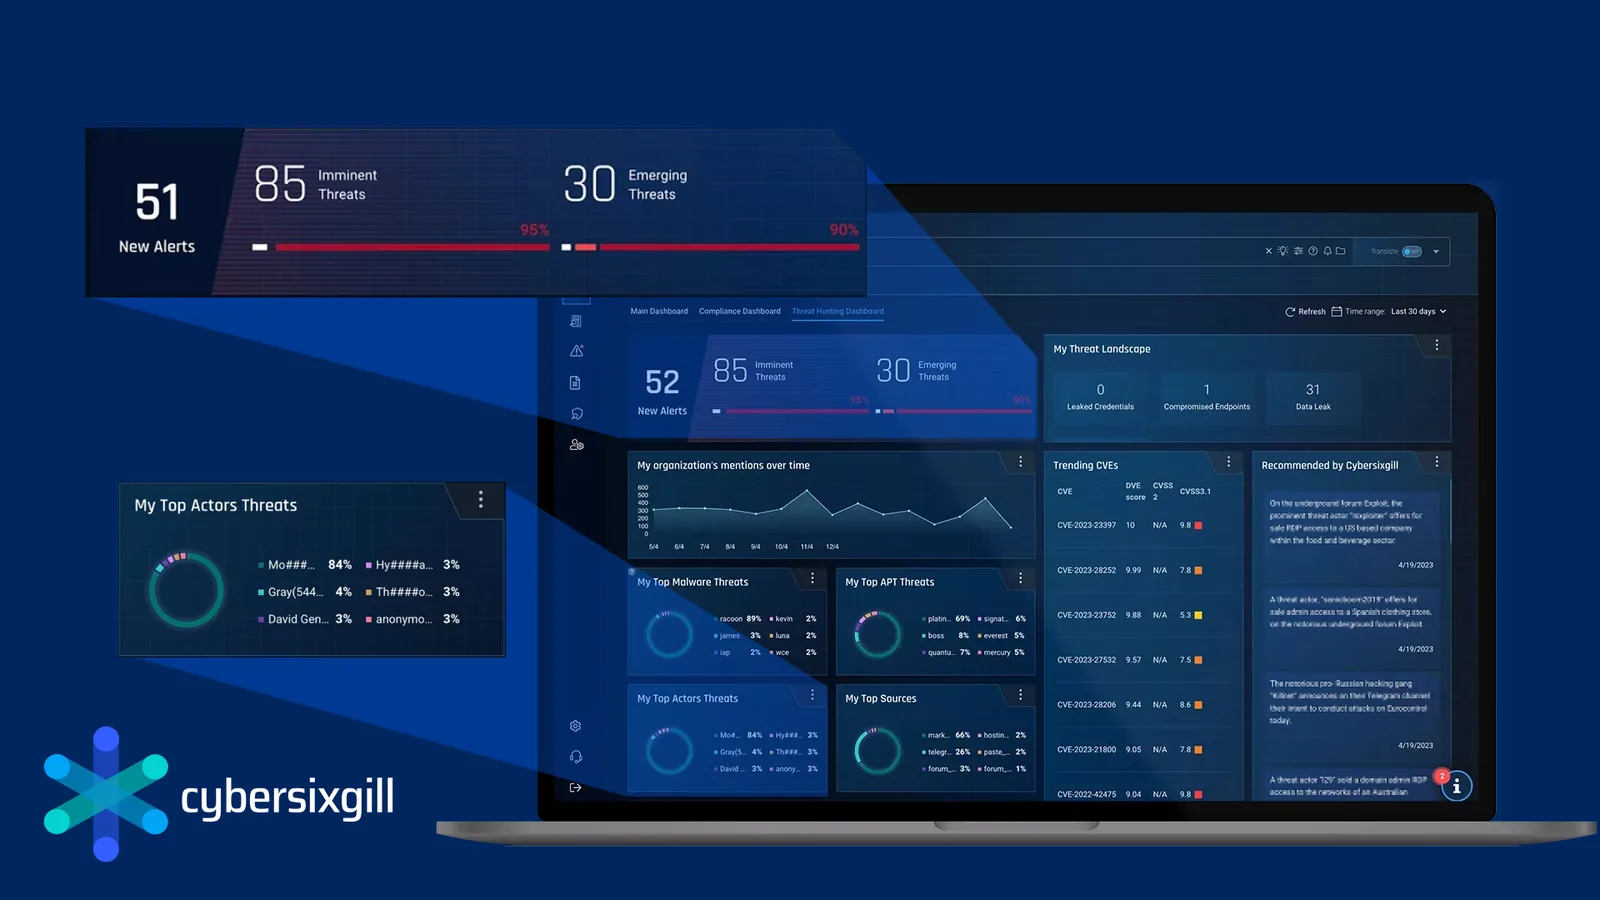
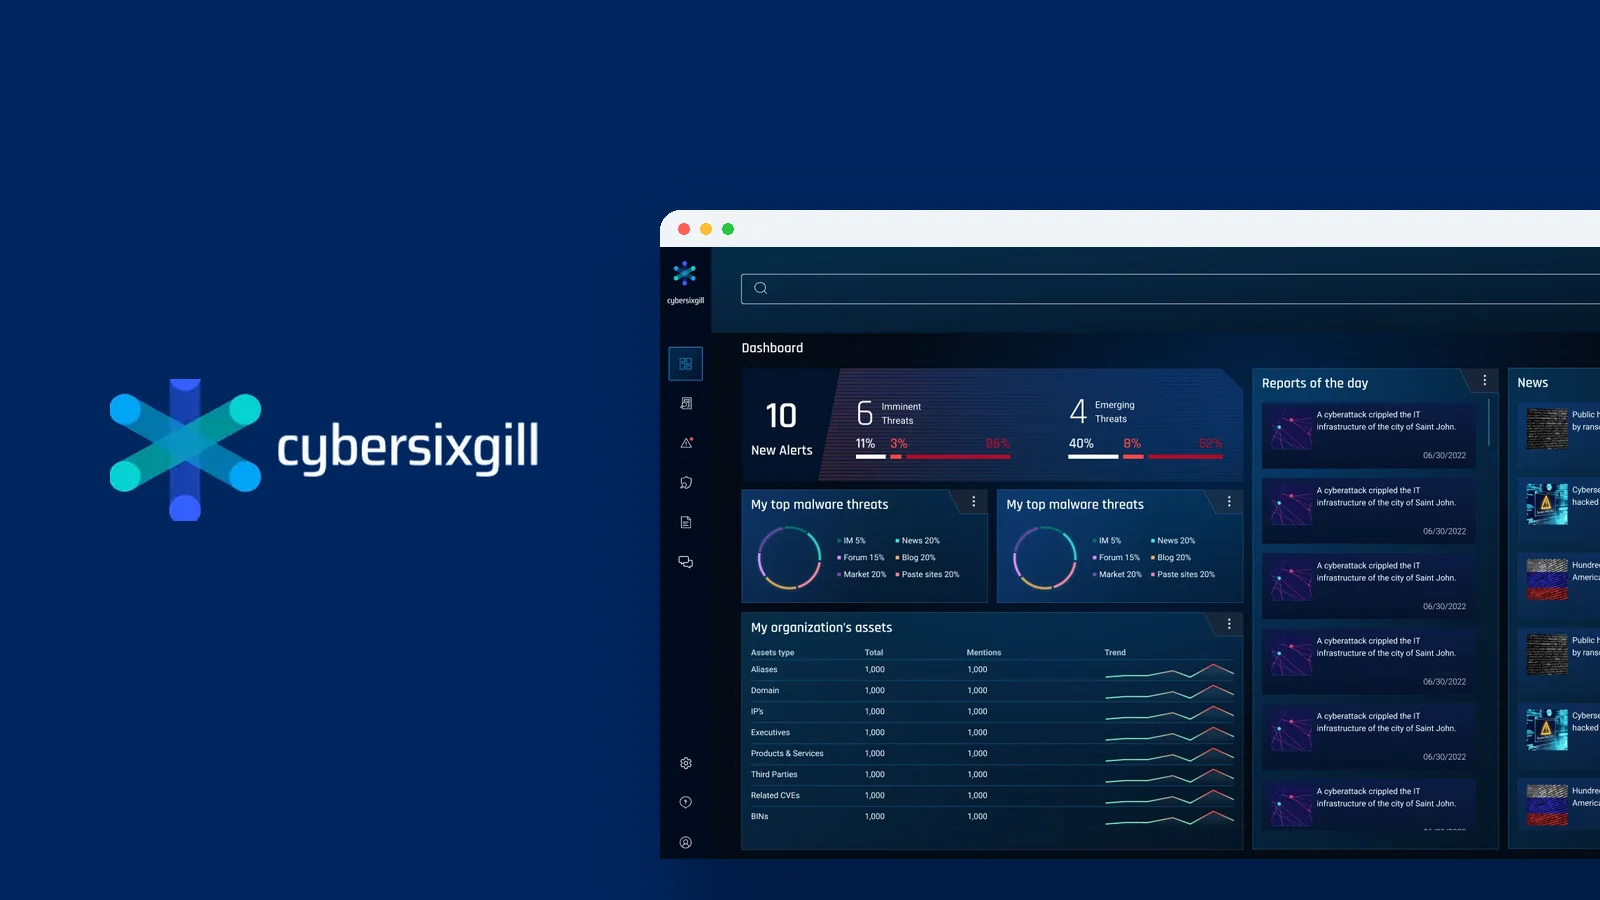
Preview: Sentrycs and Cybersixgill covers on the same system as the Afimilk pair
Claude-Session: https://claude.ai/code/session_01U3LnkADmWK6BWBvsiVpdjW

diff --git a/scripts/client-covers.py b/scripts/client-covers.py
@@ -1,0 +1,64 @@
+"""Rebuild the Sentrycs and Cybersixgill homepage covers on the same system as the two
+Afimilk cards: flat brand field, the client's own logo on the left, a product window
+bleeding off the right edge, and a couple of small brand accents."""
+from PIL import Image, ImageDraw, ImageFilter
+import numpy as np, sys
+I='/home/claude/portfolio/public/images/'; S=sys.argv[1]
+W,H=1600,900
+
+def window(img, width, radius=20, bar=36):
+    """Put a screenshot in a light browser chrome, returned with its rounded mask."""
+    h=int(img.height*width/img.width); img=img.resize((width,h),Image.LANCZOS)
+    win=Image.new('RGB',(width,h+bar),(255,255,255)); win.paste(img,(0,bar))
+    d=ImageDraw.Draw(win); d.rectangle((0,0,width,bar),fill=(241,244,247))
+    for i,c in enumerate([(255,95,87),(254,188,46),(40,200,64)]): d.ellipse((18+i*22,13,29+i*22,24),fill=c)
+    mask=Image.new('L',win.size,0); ImageDraw.Draw(mask).rounded_rectangle((0,0,win.width,win.height+60),radius,fill=255)
+    return win, mask
+
+def place(cv, win, mask, x, y, shadow=(10,20,40)):
+    sh=Image.new('L',(W,H),0)
+    ImageDraw.Draw(sh).rounded_rectangle((x+8,y+28,x+win.width+40,y+win.height+40),26,fill=120)
+    sh=sh.filter(ImageFilter.GaussianBlur(36))
+    cv=Image.composite(Image.new('RGB',(W,H),shadow),cv,sh)
+    cv.paste(win,(x,y),mask); return cv
+
+def matte(arr, bg_pct=92):
+    """Alpha matte for dark artwork sitting on a light, slightly uneven background."""
+    lum=arr.sum(2)/3; bg=np.percentile(lum,bg_pct,axis=0)[None,:]
+    return np.clip((bg-lum)/np.maximum(bg-12,1),0,1)
+
+# ---------- Sentrycs: black-on-light wordmark, so the field stays light ----------
+src=Image.open(I+'sentrycs-1600.webp').convert('RGB')
+w=src.crop((44,735,450,822)); lum=w.convert('L')
+bgl=lum.filter(ImageFilter.MaxFilter(21)).filter(ImageFilter.GaussianBlur(12))
+Lv=np.array(lum).astype(float); Bv=np.array(bgl).astype(float)
+al=np.clip((Bv-Lv)/np.maximum(Bv*0.78,1),0,1)
+al=np.clip((al-0.42)/0.40,0,1)
+al=Image.fromarray((al*255).astype('uint8')).filter(ImageFilter.MedianFilter(3))
+word=Image.new('RGBA',w.size,(17,17,19,255)); word.putalpha(al)
+ac=src.crop((176,620,320,706)); arr=np.array(ac).astype(int)
+m=((arr[:,:,2]>150)&(arr[:,:,0]<150)&(arr[:,:,2]-arr[:,:,0]>45)).astype('uint8')*255
+m=Image.fromarray(m).filter(ImageFilter.GaussianBlur(0.7))
+arrows=Image.fromarray(np.dstack([np.array(ac).astype('uint8'),np.array(m)]),'RGBA')
+
+cv=Image.new('RGB',(W,H),(240,242,246))
+shot,mask=window(Image.open(I+'sentrycs/realtime-final-1600.webp').convert('RGB'),1120)
+cv=place(cv,shot,mask,660,210,shadow=(96,108,128))
+aw=168; a2=arrows.resize((aw,int(arrows.height*aw/arrows.width)),Image.LANCZOS)
+cv.paste(a2,(112,318),a2)
+ww=404; w2=word.resize((ww,int(word.height*ww/word.width)),Image.LANCZOS)
+cv.paste(w2,(110,474),w2)
+cv.save(S+'/sentrycs-cover.png')
+
+# ---------- Cybersixgill: white logo already sits on their flat navy ----------
+c=Image.open(I+'cybersixgill-1600.webp').convert('RGB')
+logo=c.crop((45,742,395,858))  # logo + wordmark, background is flat #00265F
+la=np.array(logo).astype(float); bg=np.array([0,38,95.])
+alpha=np.clip(np.abs(la-bg).sum(2)/150,0,1)
+logo_rgba=Image.fromarray(np.dstack([np.array(logo),(alpha*255).astype('uint8')]),'RGBA')
+cv=Image.new('RGB',(W,H),(0,38,95))
+shot,mask=window(Image.open(I+'cybersixgill/dashboard-1600.webp').convert('RGB'),1120)
+cv=place(cv,shot,mask,660,210,shadow=(0,16,44))
+lw=430; l2=logo_rgba.resize((lw,int(logo_rgba.height*lw/logo_rgba.width)),Image.LANCZOS)
+cv.paste(l2,(110,int(H/2-l2.height/2)),l2)
+cv.save(S+'/cybersixgill-cover.png')

diff --git a/scripts/herd-cover.py b/scripts/herd-cover.py
@@ -1,0 +1,39 @@
+from PIL import Image, ImageDraw, ImageFilter
+import numpy as np, sys
+I='/home/claude/portfolio/public/images/'; S=sys.argv[1]
+far=Image.open(I+'farmers-1600.webp').convert('RGB')
+c=far.crop((40,200,720,380)); a=np.array(c).astype(int); m=(a.sum(2)>660); ys,xs=np.where(m)
+logo=c.crop((xs.min()-3,ys.min()-3,xs.max()+4,ys.max()+4))
+la=np.array(logo).astype(float); bgc=np.array([40,123,172.])
+alpha=np.clip((la-bgc).sum(2)/((255-bgc).sum()),0,1)
+L=Image.new('RGBA',logo.size,(255,255,255,0)); L.putalpha(Image.fromarray((alpha*255).astype('uint8')))
+W,H=1600,900; BG=(40,123,172)
+cv=Image.new('RGB',(W,H),BG)
+glow=Image.new('L',(W,H),0); ImageDraw.Draw(glow).ellipse((600,0,1900,1100),fill=70); glow=glow.filter(ImageFilter.GaussianBlur(180))
+
+lw=606; L2=L.resize((lw,int(L.height*lw/L.width)),Image.LANCZOS)
+cv.paste(L2,(76,226),L2)  # same spot and size as the Farmers cover
+dash=Image.open(S+'/figma-tasks.png').convert('RGB')
+ww=1100; dh=int(dash.height*ww/dash.width); dash=dash.resize((ww,dh),Image.LANCZOS)
+bar=36; win=Image.new('RGB',(ww,dh+bar),(255,255,255)); win.paste(dash,(0,bar))
+wd=ImageDraw.Draw(win); wd.rectangle((0,0,ww,bar),fill=(241,244,247))
+for i,col in enumerate([(255,95,87),(254,188,46),(40,200,64)]): wd.ellipse((18+i*22,13,29+i*22,24),fill=col)
+mask=Image.new('L',win.size,0); ImageDraw.Draw(mask).rounded_rectangle((0,0,win.width,win.height+40),20,fill=255)
+x,y=760,230
+sh=Image.new('L',(W,H),0); ImageDraw.Draw(sh).rounded_rectangle((x+6,y+26,x+ww+40,y+win.height+40),24,fill=130); sh=sh.filter(ImageFilter.GaussianBlur(36))
+cv=Image.composite(Image.new('RGB',(W,H),(14,52,84)),cv,sh)
+cv.paste(win,(x,y),mask)
+# Brand stars lifted straight from Afimilk's own artwork (gold from the Farmers cover,
+# light blue from the original herd cover), keyed off the flat blue so they paste cleanly.
+def lift(path,box,col):
+    src=np.array(Image.open(path).convert('RGB').crop(box)).astype(float)
+    bgc=np.array([40,123,172.]); colv=np.array(col,float)
+    a=np.clip(((src-bgc)*(colv-bgc)).sum(2)/((colv-bgc)**2).sum(),0,1)
+    t=Image.new('RGBA',(src.shape[1],src.shape[0]),tuple(col)+(0,)); t.putalpha(Image.fromarray((a*255).astype('uint8'))); return t
+def put(t,cx,cy,sc=1.0):
+    if sc!=1.0: t=t.resize((int(t.width*sc),int(t.height*sc)),Image.LANCZOS)
+    cv.paste(t,(int(cx-t.width/2),int(cy-t.height/2)),t)
+gold=lift(I+'farmers-1600.webp',(414,522,452,560),(252,176,13))
+blue=lift(S+'/old-herd.webp',(525,510,575,555),(75,214,244))
+put(gold,62,214,1.15); put(blue,650,470,0.9)
+cv.save(S+'/herd-cover-new.png')
